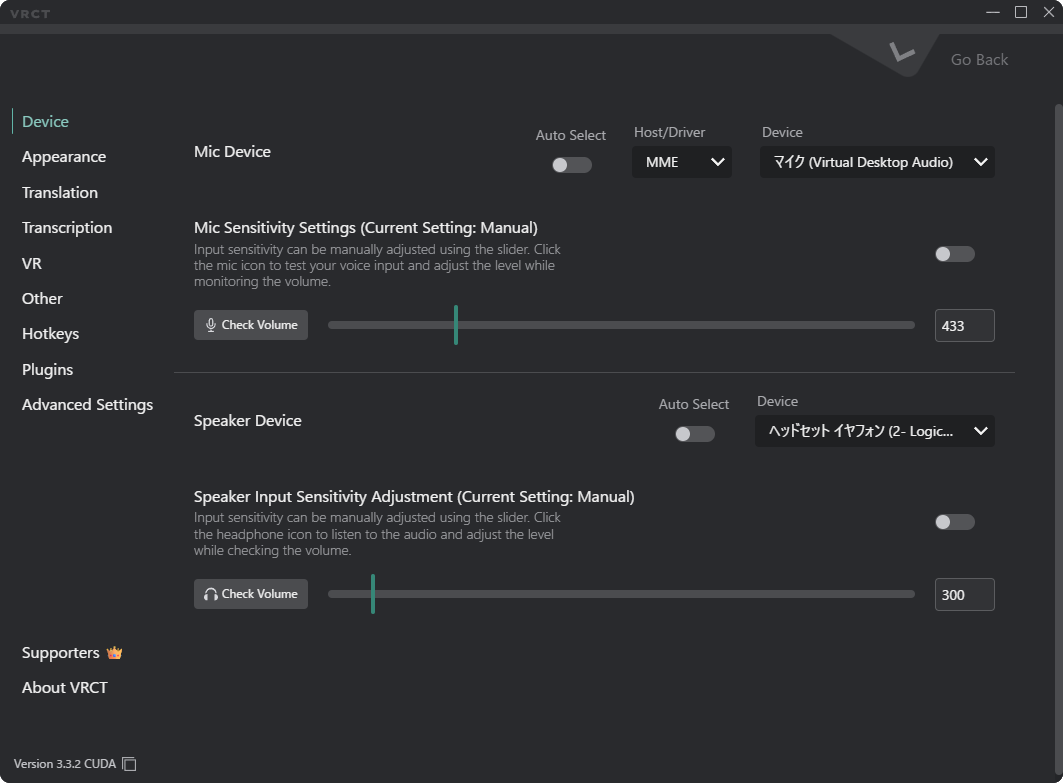
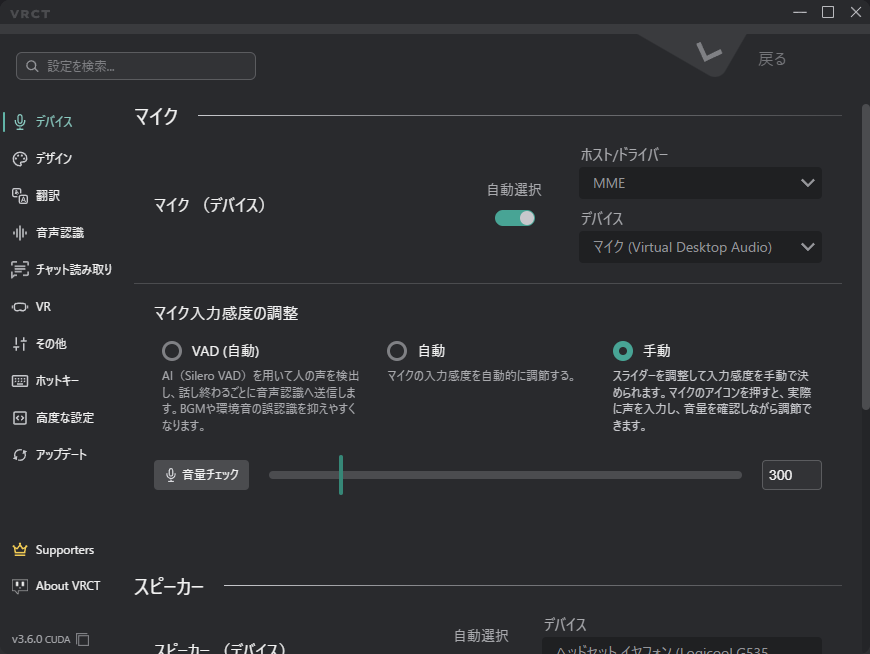
docs: fix issues found in the v3.6.0 documentation review
- Replace the stale config window overview screenshot (it still showed the Plugins tab)
- Remove the stale Device tab overview and speaker screenshots that showed the old toggle UI
- Describe the speaker Auto Select as the UI shows it (follows the output that is playing sound)
- Match the Updater page to the screen (status shows version and channel, "Device build")
- Use the app's tab name "Advanced" in the English docs
- Blog: the "Default" label marks the default model

diff --git a/i18n/ja/docusaurus-plugin-content-blog/2026-10-19-vrct-v3-6-0.md b/i18n/ja/docusaurus-plugin-content-blog/2026-10-19-vrct-v3-6-0.md
@@ -58,7 +58,7 @@ VRCT **v3.6.0** は、2つの新しい使い方を追加するリリースです
 - 選択中のエンジンに関係する項目だけを表示します。たとえば、Whisper専用の詳細設定は、Whisperを選択しているときだけ表示されます。
 - 「認証キー」の表記を「APIキー」に統一しました。
 - テキスト入力欄でEnterキーを押すと保存できます。数値入力欄は矢印キーで微調整でき、マウスホイールで値が誤って変わらなくなりました。
-- モデルの一覧で、おすすめのモデルに**デフォルト**と表示されます。
+- モデルの一覧で、デフォルトのモデルに**デフォルト**と表示されます。
 - ホットキーが他で使われている場合は、黙って失敗せず、エラーを表示します。
 
 ## 改善

diff --git a/blog/2026-10-19-vrct-v3-6-0.md b/blog/2026-10-19-vrct-v3-6-0.md
@@ -58,7 +58,7 @@ VRCT **v3.6.0** adds two new ways to use VRCT: **Chat Transcribe**, which reads 
 - Only the options that apply to the selected engine are shown. For example, the Whisper-only advanced settings appear only when Whisper is selected.
 - The "Auth Key" label is now "API Key" throughout.
 - You can press Enter to save a text entry. Number fields accept the arrow keys for fine adjustment, and the mouse wheel no longer changes their values by accident.
-- The model lists show a **Default** label on the recommended model.
+- The model lists show a **Default** label on the default model.
 - If a hotkey is already used, VRCT shows an error instead of silently failing.
 
 ## Improvements
